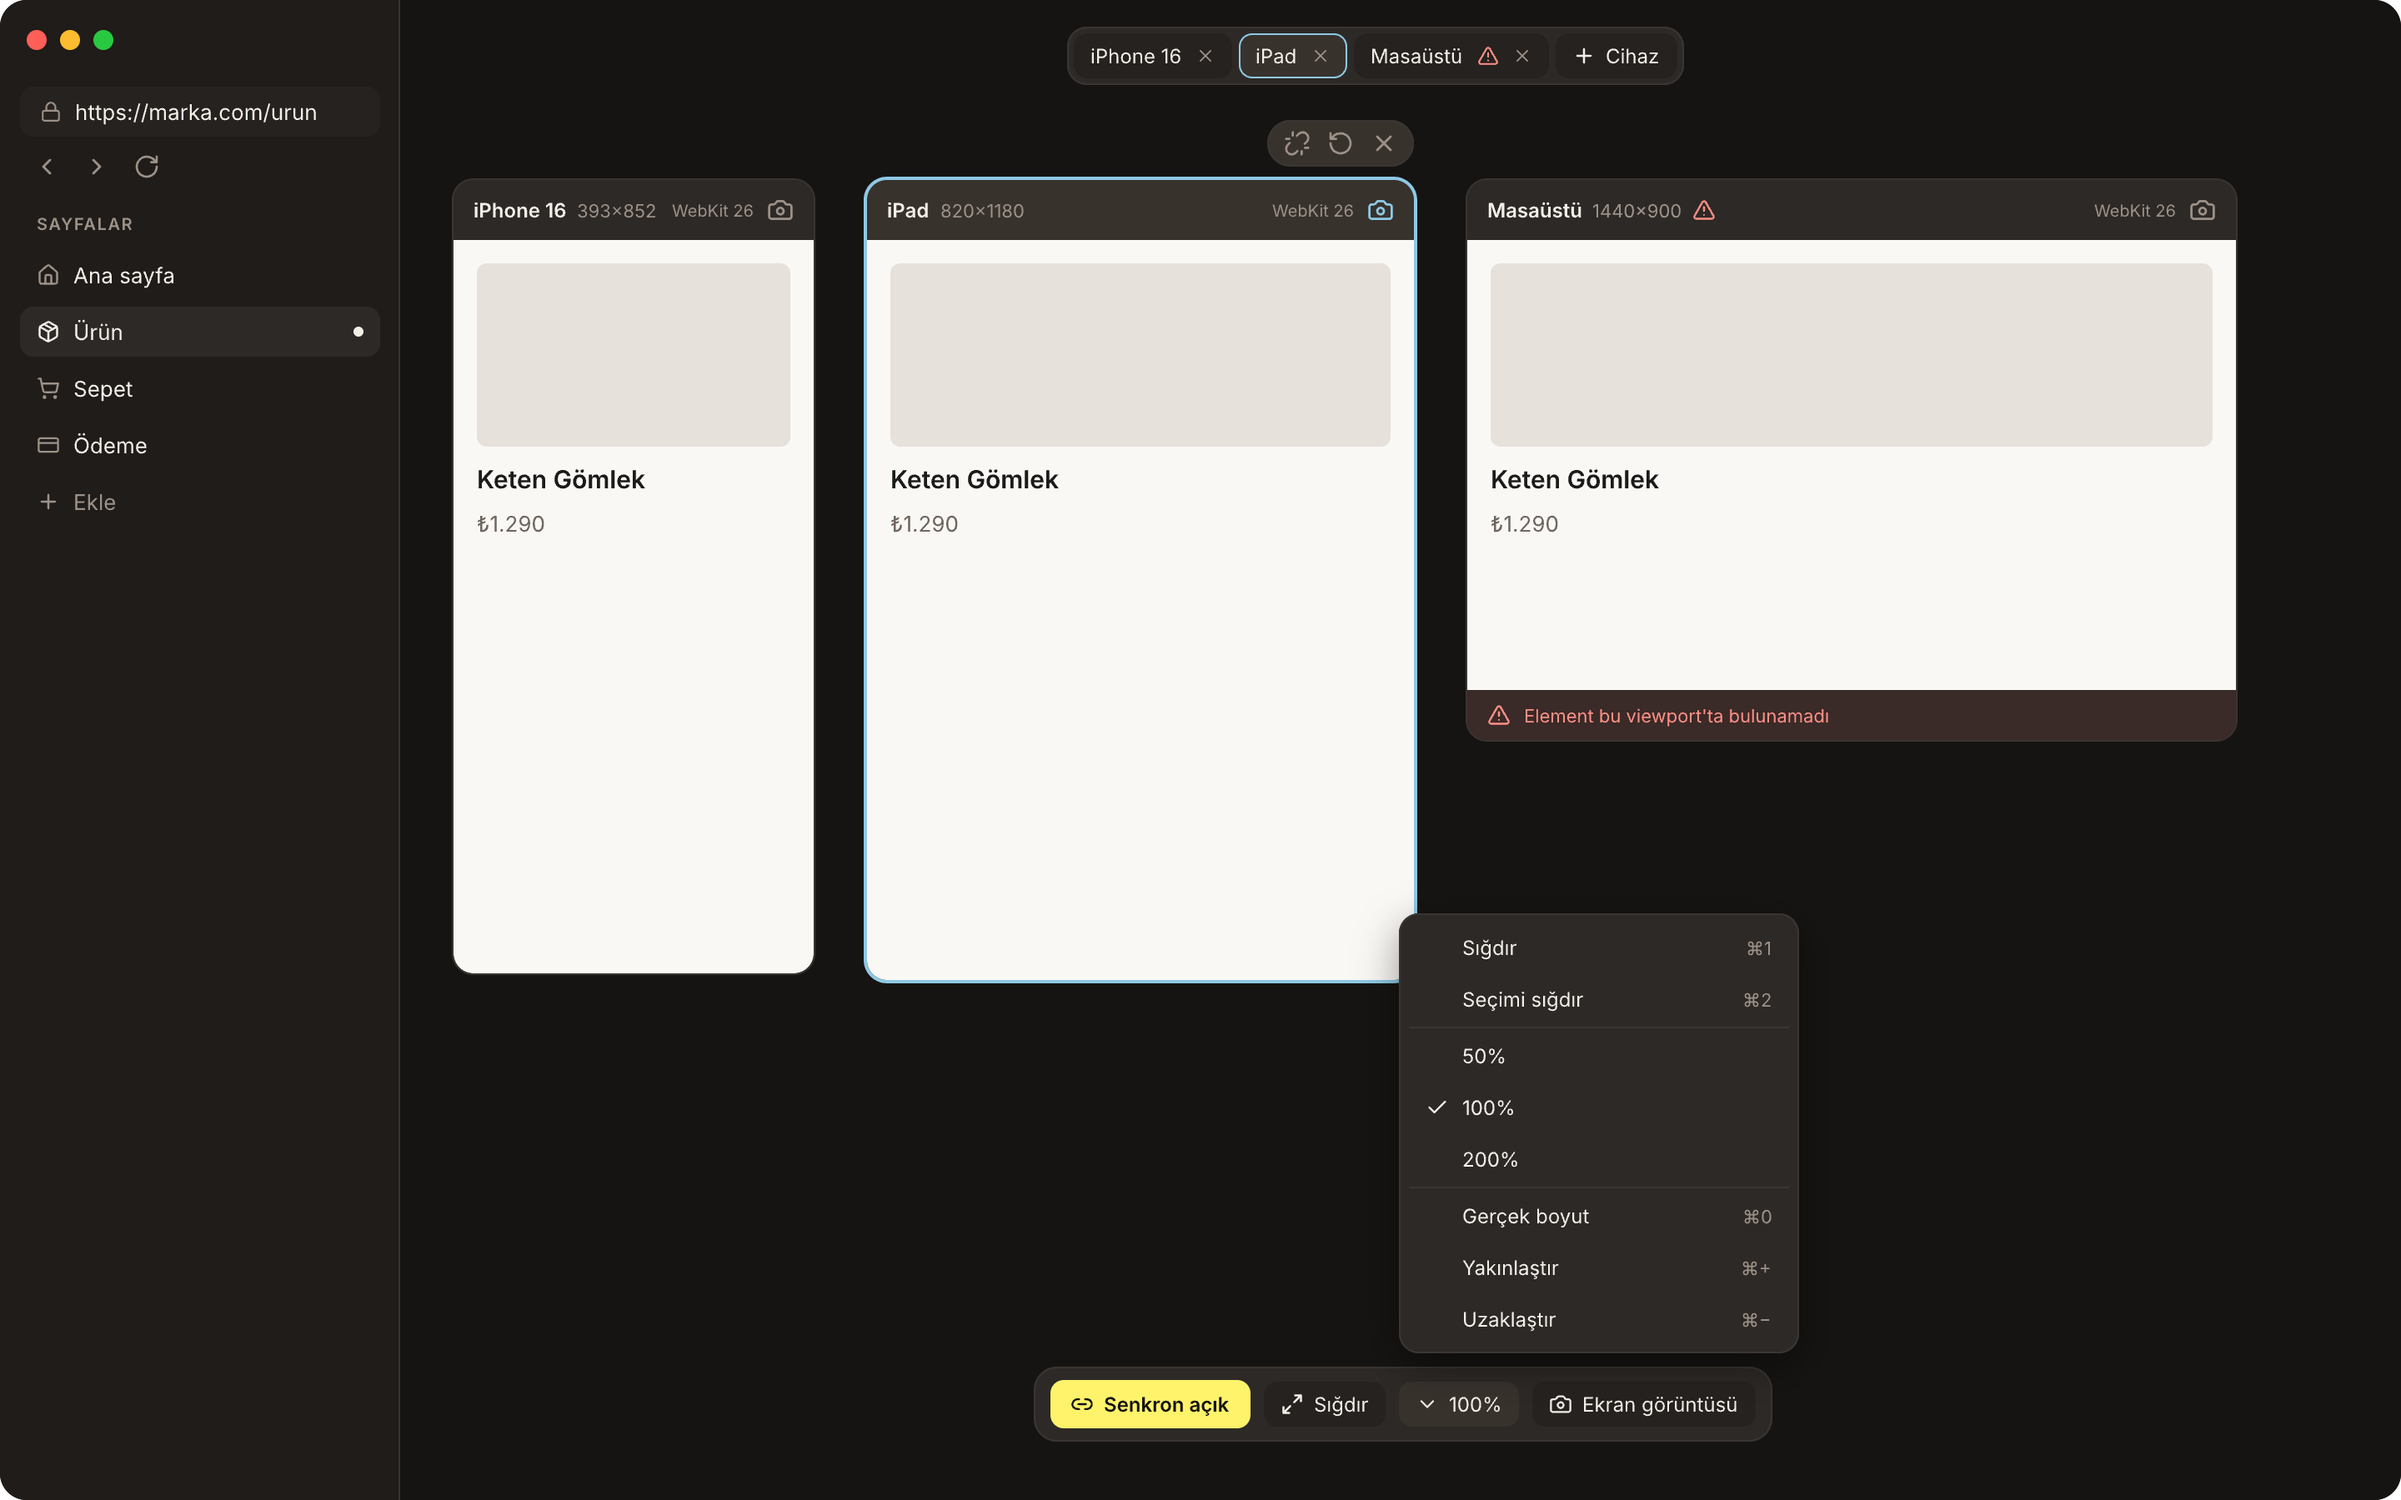
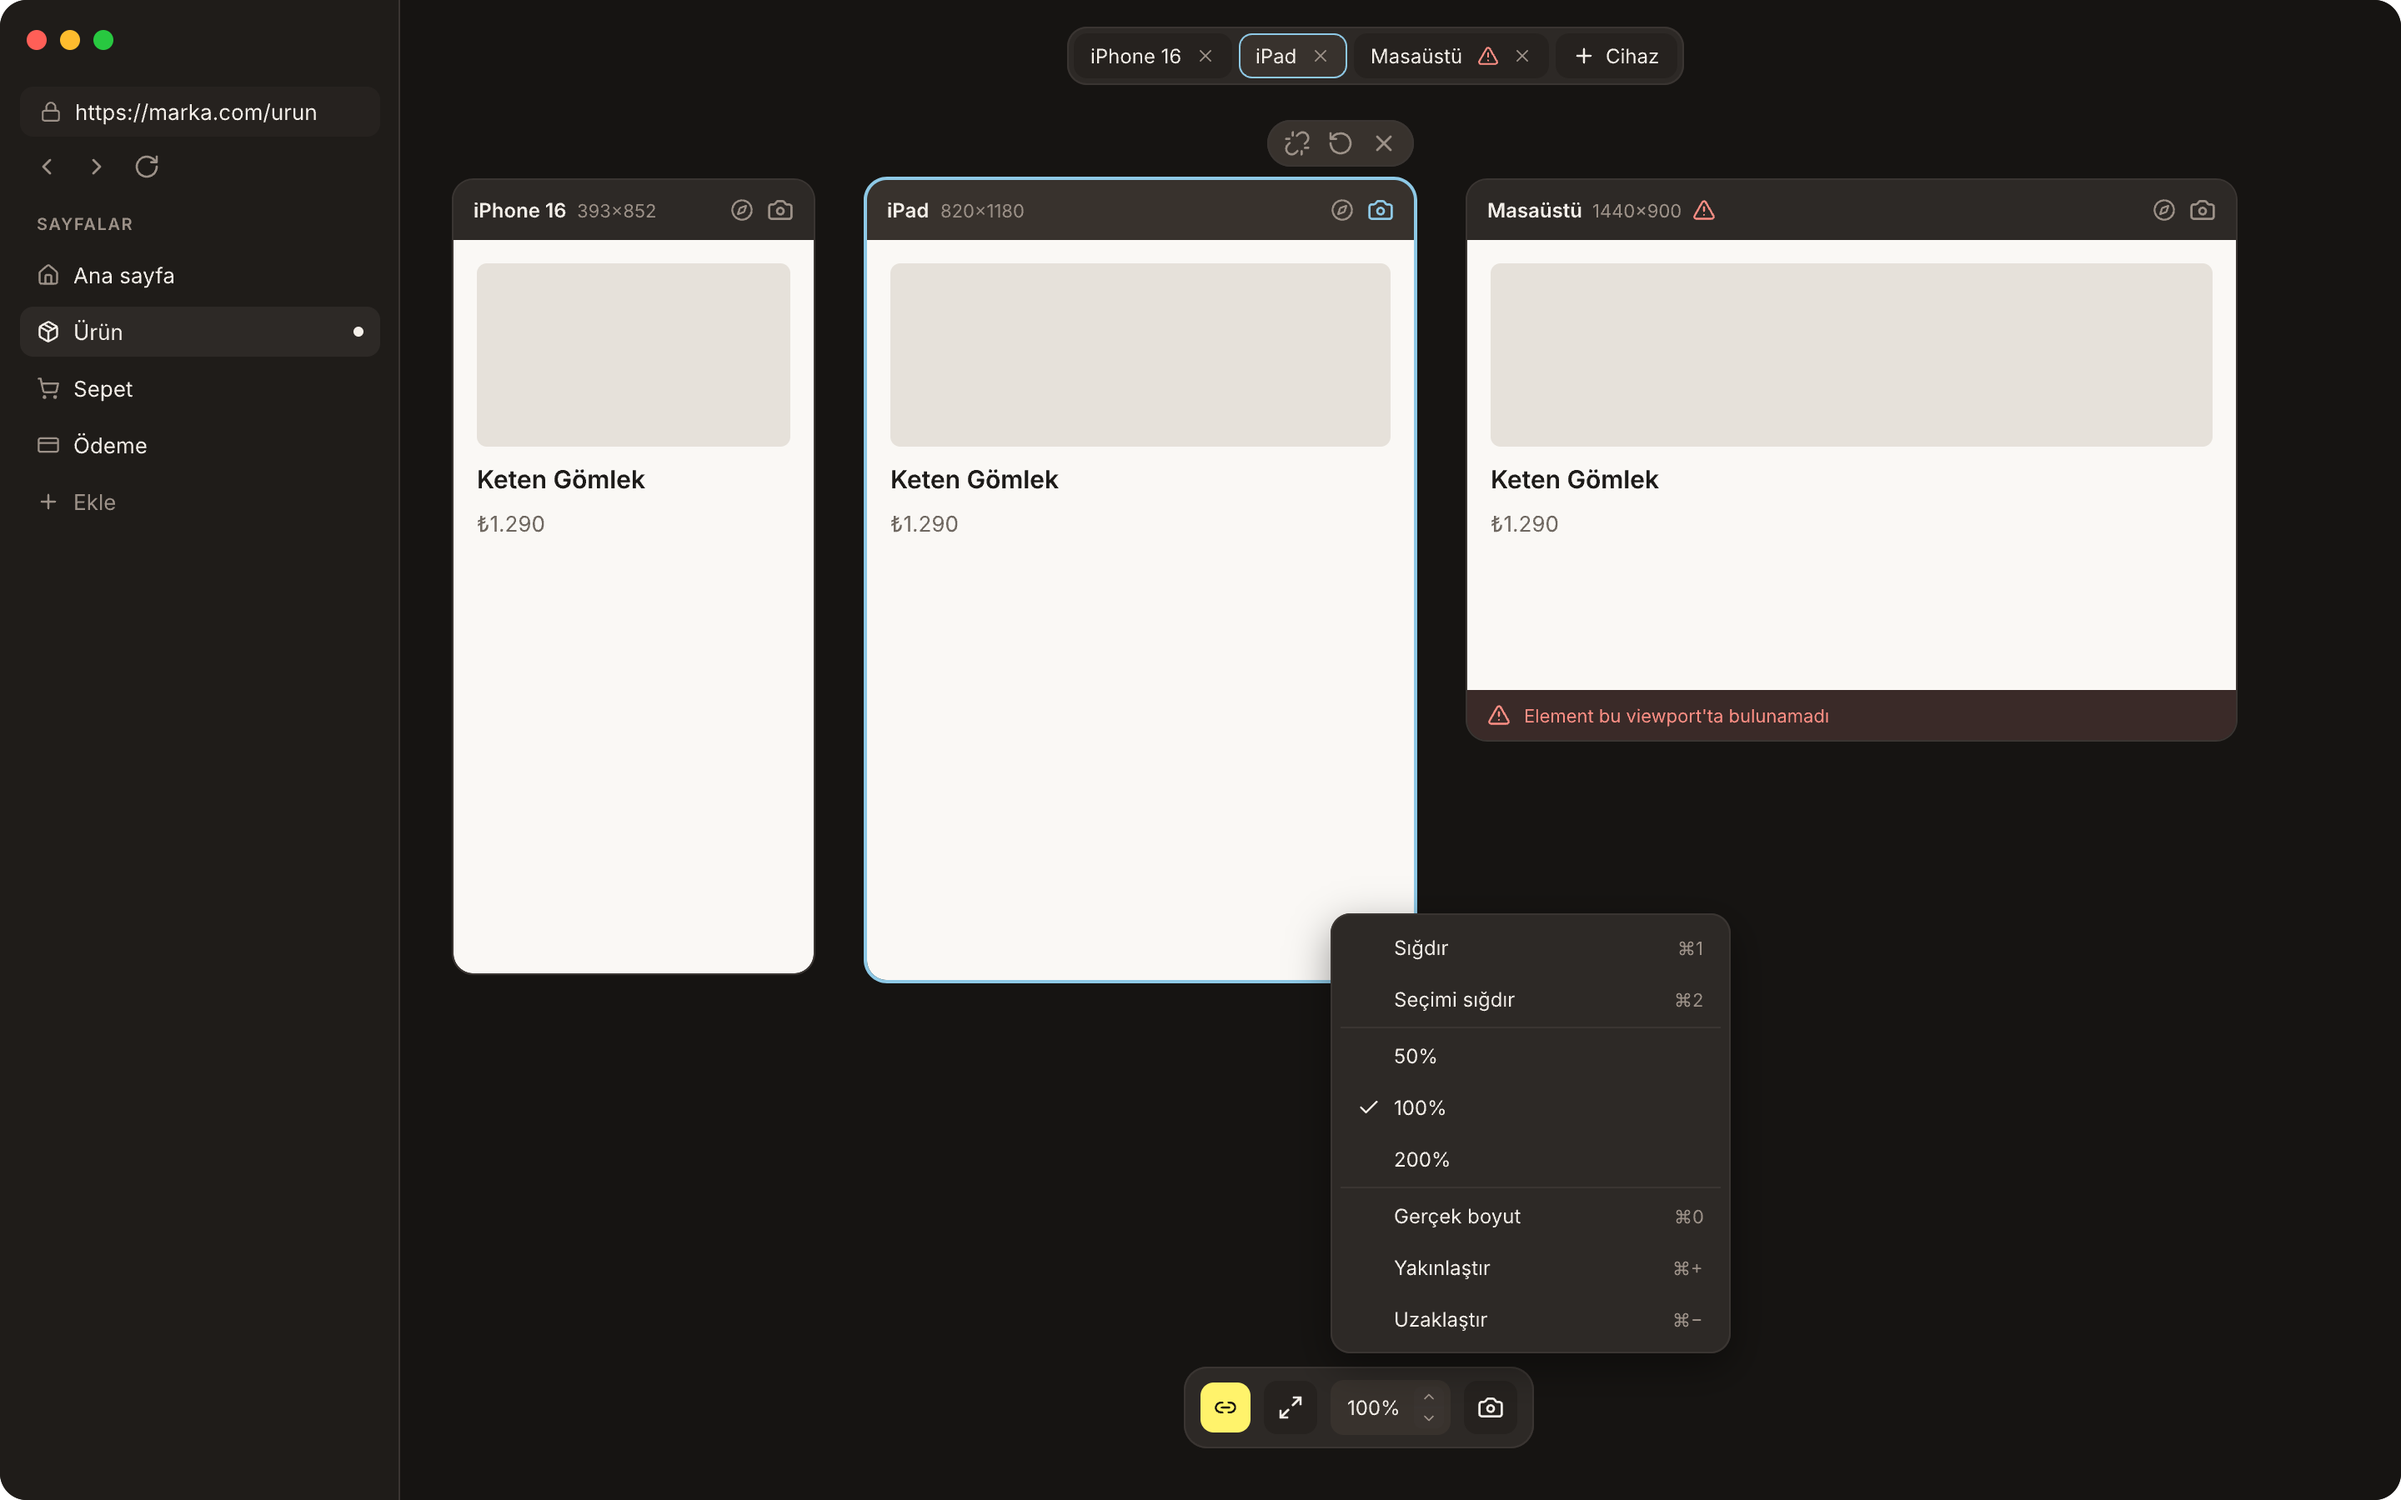
Add Toolbar/ZoomControl stepper and apply to project windows

diff --git a/DESIGN.md b/DESIGN.md
@@ -85,7 +85,7 @@ Referans: pen.dev'in giriş ekranı. AI istem kutusunun yerini URL kutusu alır.
 
 - **Sidebar (220, varsayılan açık):** üstte traffic lights, URL alanı ve geri/ileri/yenile; altında "SAYFALAR" listesi (tıklayınca tüm viewport'lar o sayfaya gider; ekleme, kaldırma, yeniden adlandırma, sürükleyerek sıralama; "+ Ekle"). Kapanınca ışıklar, sidebar düğmesi, nav ve URL canvas'ın üst solunda tek bir yüzen kapsüle taşınır (aynı sırayla), canvas tam genişliği alır.
 - **Cihaz sekmeleri (canvas üstünde yüzen şerit):** açık viewport'lar sırayla; her sekme kartla aynı durumu taşır (lider gök çerçeve, senkron kaçtı mercan üçgen, yükleniyor dönen ikon, snapshot resim ikonu). Sığmayınca şerit kayar (kenarda solma + ok); sağda "+N" çipi gizli cihazların en ciddi durumunu gösterir (hata > lider > yükleniyor > normal) ve menü açar ("GİZLİ CİHAZLAR"): her gizli cihaz için ad, boyut · motor · durum metni, odakla ve kapat düğmeleri. Etkileşimler aşağıdaki tabloda. Sekme adı asla kısaltılmaz, durum ikonu asla gizlenmez. Sonda "+ Cihaz".
-- **Alt yüzen çubuk (ikon-only):** Senkron (sarı zincir; kapalıyken gri kırık zincir), Sığdır, zoom yüzdesi (metin + menü; veri olduğu için ikonlaşmaz), ekran görüntüsü. Her ikonun hover'ında koyu tooltip: ad + kısayol. Bildirim kapsülü bu çubuğun üstüne çıkar; menü veya tooltip açıkken gösterilmez.
+- **Alt yüzen çubuk (ikon-only):** Senkron (sarı zincir; kapalıyken gri kırık zincir), Sığdır, zoom kontrolü (`Toolbar/ZoomControl`: yüzde metni + sağında dikey mini stepper ▲▼; yüzdeye tık → menü, ▲▼ kademeli zoom, yüzde yatay sürükle → sürekli zoom), ekran görüntüsü. Her ikonun hover'ında koyu tooltip: ad + kısayol. Bildirim kapsülü bu çubuğun üstüne çıkar; menü veya tooltip açıkken gösterilmez.
 - **Zoom menüsü (çubuğun üstüne açılır):** Sığdır ⌘1, Seçimi sığdır ⌘2 · 50% / 100% / 200% (geçerli olan işaretli) · Gerçek boyut ⌘0, Yakınlaştır ⌘+, Uzaklaştır ⌘−.
 - **Viewport kartı:** kompakt tek satır başlık: cihaz adı, boyut, sağda motor ikonu ve kamera düğmesi. Motor yalnızca ikon; hover'da tooltip "WebKit 26 · macOS 26". Sığmazsa gizlenme sırası: önce boyut, sonra ad ortadan kısaltılır; motor ikonu ve kamera asla gizlenmez. Sekmeler motor göstermez; aynı cihaz iki motorda açılırsa sekme adı "iPad · Chromium" olur. Hover'da kapat / döndür / senkrondan çıkar kartın üstünde yüzen şeritte. Durumlar §4'te.
 - **Lider göstergesi:** imlecin üstünde olduğu viewport gök çerçeve ve parlak başlıkla vurgulanır; sekmesi de aynı renkte.
@@ -106,7 +106,9 @@ Referans: pen.dev'in giriş ekranı. AI istem kutusunun yerini URL kutusu alır.
 | Motor ikonu hover | Tooltip: motor adı + sürüm, altında işletim sistemi | 400 ms gecikme, 100 ms fade |
 | Alt çubuk ikon hover | Tooltip (ad + kısayol) | 400 ms gecikme, 100 ms fade |
 | Senkron düğmesi | Senkron aç/kapa; sarı ↔ gri, zincir ↔ kırık zincir | 150 ms |
-| Zoom düğmesi | Zoom menüsü çubuğun üstüne açılır | 120 ms fade + 4 px |
+| Zoom yüzdesine tık | Zoom menüsü çubuğun üstüne açılır | 120 ms fade + 4 px |
+| Zoom ▲ / ▼ | Kademeli zoom (25, 50, 100, 200, 400); basılı tutunca tekrar | 150 ms ease-out |
+| Zoom yüzdesini yatay sürükle | Sürekli zoom, 1 px = %1; ⇧ ile kademe atlar; imleç ↔ | Anlık |
 | Sidebar düğmesi / ⌘⇧S | Sidebar kapanır; ışıklar + nav + URL üst sol kapsüle taşınır | Sidebar 200 ms genişlik; kapsül 150 ms fade |
 
 Kapat, döndür, senkrondan çıkar ve ekran görüntüsü eylemleri menü çubuğunda da bulunur (hover'a gizlenenler klavye ve menüden ulaşılabilir kalır).
@@ -136,6 +138,7 @@ Alt veya sağ panel. Motor diff listesi ("Buton Safari'de 12px aşağıda"), tı
 | Cihaz sekmeleri durum taşır (lider/senkron kaçtı/yükleniyor/snapshot); taşmada kaydırılabilir şerit + "+N" durum çipi + gizli cihaz menüsü; ad kısaltılmaz. İkon-only sekmeler reddedildi (hata hangi cihazda, tek bakışta okunmalı) | 2026-10-10 |
 | Alt çubuk ikon-only, tooltip koyu zeminli (ad + kısayol); zoom menüsü ve gizli cihaz menüsü çizildiği gibi; menüde "sidebar'da göster" yok, satırda seç (sekmeye kaydır + canvas'ta seç), odakla ve kapat var; davranışlar §3.2 etkileşim tablosunda | 2026-10-10 |
 | Kart başlığında motor yalnızca ikon, sürüm hover tooltip'te; dar kartta gizlenme sırası boyut → ad kısaltma, motor ve kamera hep görünür. Tam ad/kısa kod rozetleri reddedildi (230 px'te uzun cihaz adıyla taşıyor). Motor ikonları özel SVG olacak (Lucide'de Chromium yok; logolar marka hakkı nedeniyle birebir kullanılmaz) | 2026-10-10 |
+| Zoom kontrolü Z2: yüzde + dikey mini stepper (macOS stepper); bölünmüş stepper, hover'da açılan ve scrubber reddedildi. Yüzde ayrıca sürüklenebilir | 2026-10-10 |
 
 ## 5. Bekleyen tasarım kararları
 

diff --git a/design/HANDOFF.md b/design/HANDOFF.md
@@ -15,7 +15,8 @@
 - Bileşenler: `Viewport/Card`, `Viewport/HoverStrip`, `Window/Toast`, `Sidebar/Row`, `Toolbar/Button`, `Toolbar/DeviceTab` (durum ikonlu).
 - Ek durumlar: `Project Window · 8 cihaz · menü açık` (+N menüsü), `· Zoom menüsü açık` (Sığdır ⌘1, Seçimi sığdır ⌘2, 50/100/200, Gerçek boyut ⌘0, Yakınlaştır/Uzaklaştır), `· İkon çubuklar + tooltip` (alt çubuk ikon-only, Sığdır üstünde tooltip). Karar: alt çubuk ikon-only; tooltip koyu; menü satırında seç/odakla/kapat. Davranışlar DESIGN.md §3.2 etkileşim tablosunda.
 - Motor rozeti → ikon + tooltip (`Engine Tooltip` frame, `card-engine-tooltip@2x.png`). Motor ikonları şimdilik Lucide yer tutucu (compass); üç özel glif tasarlanacak.
-- Bilinen eksikler: zoom düğmesinde chevron solda; sidebar hover/rename durumları; gizli-lider çip rengi yalnızca açıklamada; açık tema.
+- `Toolbar/ZoomControl` (Z2) kuruldu ve tüm pencere frame'lerine uygulandı.
+- Bilinen eksikler: sidebar hover/rename durumları; gizli-lider çip rengi yalnızca açıklamada; açık tema.
 
 ## Sıradaki iş
 

diff --git a/design/notlar/2026-10-10.md b/design/notlar/2026-10-10.md
@@ -29,3 +29,4 @@
 - Karar: motor ikon + hover tooltip. `Viewport/Card` güncellendi (Engine text → icon; Replace çalışmadı, Delete+Insert+Move ile yapıldı). Tooltip frame'i çizildi. **İşlendi** (DESIGN.md §3.2, §4, etkileşim tablosu).
 - Motor tooltip'i asıl pencerede gösterildi (`Project Window · Motor tooltip`). Tooltip zemini canvas ile karıştığı için `surface/tooltip` (#0B0A09) değişkeni eklendi; üç tooltip de buna bağlandı.
 - Zoom kontrolü için −/+ istendi; dört yapı çizildi (Z1 bölünmüş stepper, Z2 dikey mini stepper, Z3 hover'da açılan, Z4 scrubber + mini iz). Karar bekliyor. Dışa aktarım zoom-control-options@2x.png.
+- Zoom: Z2 (dikey mini stepper) seçildi; `Toolbar/ZoomControl` bileşeni kuruldu, 7 pencere frame'inde eski Zoom düğmesi değiştirildi, zoom menüsü yeniden hizalandı. Chevron-solda eksiği böylece kapandı. **İşlendi** (DESIGN.md §3.2, §4, etkileşim tablosu).
